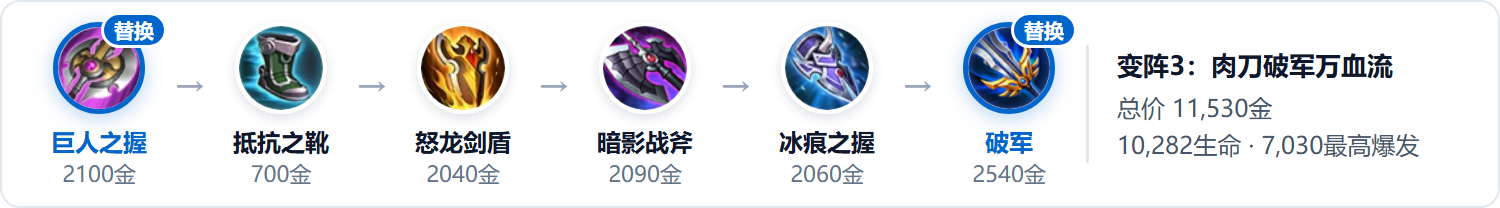
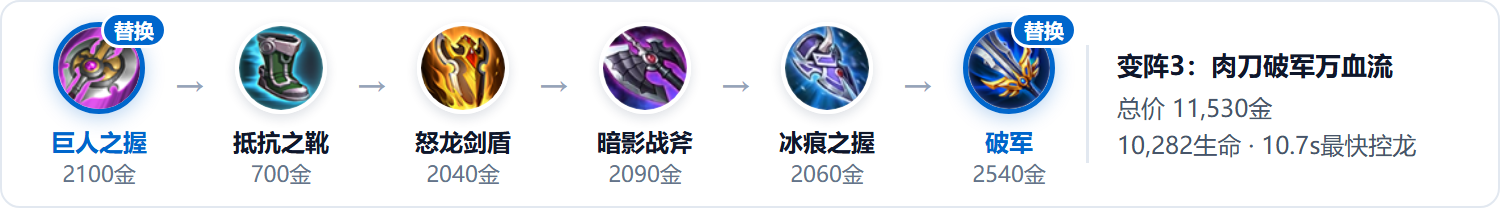
docs(guide): update Zhao Yun S45 build guide and assets with v1.2.3 calculation engine

diff --git a/docs/guides/zhaoyun_jungle_guide.md b/docs/guides/zhaoyun_jungle_guide.md
@@ -6,7 +6,7 @@
 
 同样是半肉底子，不同出装在实战中的优劣势差异明显：比如打野刀是出红刀补攻击与冷却，还是出肉刀撑万血？防装是保留怒龙剑盾、暴烈之甲，还是替换为不死鸟之眼、魔女斗篷或碎星锤？下面按照对局真实经济节奏，分**后期（15分钟六神装全局评估）、前期（5分钟第一大件与12格预设）、中期（8~10分钟大红刀升级节点与双龙团过渡）**进行拆解。
 
-> **测试条件说明**：统一携带百穿隐匿铭文（**10异变 + 10鹰眼 + 10隐匿**）；伤害按赵云基础进场连招 **1-3-A-2-A** 计算（1技能突进 + 大招击飞挂感电 + 强化普攻 + 2技能4段刺满 + 补一发普攻）。
+> **测试条件说明**：统一携带百穿隐匿铭文（**10异变 + 10鹰眼 + 10隐匿**）；伤害按赵云基础进场连招 **1-3-A-2-A** 计算（1技能突进 + 大招击飞挂感电 + 强化普攻 + 2技能5枪刺满 + 补一发普攻，严格计入冰痕1.25秒、怒龙2.5秒、宗师3.0秒内置CD与三级野刀狩猎灼烧）。
 
 ---
 
@@ -26,10 +26,10 @@
 | **法术防御 (面板免伤)** | 419 (41%免伤) | **449 (43%免伤)** | 419 (41%免伤) | 419 (41%免伤) |
 | **物理 / 法术承伤上限 (EHP)** | **26,306** / 15,827 | 26,056 / 16,729 | 22,310 / 15,318 | 25,398 / **17,438** |
 | **面板移速** | 494 | 494 | **527 (最快)** | 494 |
-| **打【中射】爆发伤害 (350防)** | 6,965 | 6,322 | 6,833 | **7,030 (最高)** |
-| **打【坦克】爆发伤害 (1000防)** | 3,541 | 3,213 | **4,022 (最高)** | 3,574 |
+| **打【中射】爆发伤害 (350防)** | **6,500 (最高)** | 6,178 | 6,447 | 6,468 |
+| **打【坦克】爆发伤害 (1000防)** | 3,321 | 3,157 | **3,813 (最高)** | 3,305 |
 | **2技能回血 (健康 / ≤30%残血)** | 1,323 / 1,323 | 1,348 / **1,961** | 1,307 / 1,307 | **1,406** / 1,406 |
-| **单刷大龙耗时 (3.5万血)** | 11.2 秒 | 13.3 秒 | 11.3 秒 | **10.2 秒** |
+| **单刷大龙耗时 (3.5万血)** | 10.9 秒 | 12.1 秒 | 11.1 秒 | **10.7 秒 (最快)** |
 
 从表中可以看到，没有任何一套出装能在所有维度同时占优，每套方案都是在**爆发伤害、打肉效率、物理/法术身板、残血续航与经济平滑度**之间做取舍。下面对四套方案的优势与短板逐一评估：
 
@@ -43,11 +43,11 @@
 
 * **核心优势**：
   1. **物理抗伤能力最强**：三件防装（`冰痕之握 +300物防`、`暴烈之甲 +210物防`、`怒龙剑盾 +150物防`）将满级物防堆至 **1,095 点（65%物理免伤）**，配合 9,332 点生命值，折算物理承伤上限达 **26,306**（四套最高），正面承受敌方射手、物理刺客与战边的输出非常扎实；
-  2. **后排斩杀线与刷龙速度达标**：依托暗影战斧、冰痕强击、怒龙剑盾被动（3.5%最大生命物理伤害）以及暴烈之甲叠满后的 10% 增伤，一套连招打中射脆皮可达 **6,965 点**，配合红惩击刚好覆盖 15 级无防装后排（约 7,000 血）的斩杀线，单刷大龙仅需 **11.2 秒**；
+  2. **后排斩杀线与刷龙速度达标**：依托暗影战斧、冰痕强击（1.25秒冷却，连招内触发2次）、怒龙剑盾被动（3.5%最大生命物理伤害）、贪婪之噬狩猎灼烧以及暴烈之甲叠满后的 10% 增伤，一套连招打中射脆皮可达 **6,500 点**（四套最高），配合红惩击刚好覆盖 15 级无防装后排（约 6,500~7,000 血）的斩杀线，单刷大龙仅需 **10.9 秒**；
   3. **冷却与移速手感均衡**：常驻 32.5% 冷却缩减（2技能 3.4 秒、大招 8.8 秒），面板移速 494（触发暴烈被动最高可达 532）。
 * **主要短板**：
   1. **法防面板偏薄（重物防、轻法防）**：全身仅靠 `抵抗之靴 (+100法防)` 和 `怒龙剑盾 (+150法防)` 提供魔抗，满级法防仅 **419 点（41%法术免伤）**，折算法术承伤上限为 15,827。到了中后期，敌方法师做出 `虚无法杖（45%法穿）` 与常规法穿铭文/秘法鞋后，这 419 点法防扣完穿透仅剩 **60~80 点（实际法术免伤跌至约 10%）**，面对高法伤阵容时容易被快速压低血线；
-  2. **缺乏百分比破甲**：仅有 280 点固定物穿，打千防坦克一套伤害为 **3,541 点**，后期处理多前排阵容效率有限。
+  2. **缺乏百分比破甲**：仅有 280 点固定物穿，打千防坦克一套伤害为 **3,321 点**，后期处理多前排阵容效率有限。
 * **适用场景**：双方阵容常规、敌方法术威胁适中、单前排的均势对局。
 
 ---
@@ -62,7 +62,7 @@
   1. **残血极限续航与多轮拉扯能力突出**：赵云血量低于 40% 进入三档被动【飞龙在天】时自带 **20% 免伤**，此时不死鸟之眼的血统被动同步叠高。实测在 30% 血量以下释放 2 技能，单次可回复 **1,961 点生命**（比官方流多回 **638 点**），在持续拉扯团战与残血反打中优势明显；
   2. **生命值与物防依然稳固**：生命值提升至 **9,582 点**，物理防御保持在 **1,035 点（63%物理免伤）**，物理承伤上限（26,056）与官方流基本持平。
 * **主要短板**：
-  1. **失去单人满血秒 C 能力，刷龙变慢**：换掉怒龙剑盾后，失去其按最大生命值计算的被动伤害，打后排脆皮一套伤害降至 **6,322 点**（比官方流少 643 点），无法一套秒杀满血后排，进场打完一套需追击补一两发普攻；单刷大龙耗时也从 11.2 秒增加到 **13.3 秒**；
+  1. **失去单人满血秒 C 能力，刷龙变慢**：换掉怒龙剑盾后，失去其按最大生命值计算的被动伤害，打后排脆皮一套伤害降至 **6,178 点**（比官方流少 322 点），无法一套秒杀满血后排，进场打完一套需追击补一两发普攻；单刷大龙耗时也从 10.9 秒增加到 **12.1 秒**；
   2. **面板法防仅比官方流多 30 点（419 → 449）**：被替换的 `怒龙剑盾` 本身带有 150 法防，而 `不死鸟之眼` 为 `+90物防 / +180法防 / +1350生命`，替换后面板法防仅升至 **449 点（43%法术免伤，仅提高 2%）**。因此它抗法伤的机制是“吃完第一波伤害不死、靠 2 技能高额回血把血线抬回来”，而非靠高魔抗硬吃爆发。若敌方是安琪拉、干将莫邪、不知火舞等超高爆发法师且发育超前，一套直接灌死不给回血机会，则应将不死鸟替换为 **`魔女斗篷`（`+300法防 / +1100生命`，面板法防提至 `569`［49%免伤］并附带 `1,000+` 法术护盾与被动转化 `45物防`）**。
 * **适用场景**：敌方为消耗型法师（沈梦溪、嬴政、扁鹊等）、双法伤阵容或多回合拉扯团战。
 
@@ -75,11 +75,11 @@
 这套是将官方流最后一件暴烈之甲替换为 `碎星锤`。
 
 * **核心优势**：
-  1. **打前排与半肉后排效率最高**：暗影战斧（180物穿）+ 百穿铭文（100物穿）+ 碎星锤（30%物穿）组成“双穿”，物理攻击升至四套最高的 **816 点**，打千防坦克一套伤害提升至 **4,022 点**（比官方流高约 14%），打补出不祥征兆的半肉射手（620物防）伤害达 **5,296 点**；
+  1. **打前排与半肉后排效率最高**：暗影战斧（180物穿）+ 百穿铭文（100物穿）+ 碎星锤（30%物穿）组成“双穿”，物理攻击升至四套最高的 **816 点**，打千防坦克一套伤害提升至 **3,813 点**（比官方流高约 15%），打补出不祥征兆的半肉射手（620物防）伤害达 **5,004 点**；
   2. **机动性全方案最高**：碎星锤提供 7.5% 移速加成，使常态面板移速达到 **527 点**（比其余三套快 33 点），带线牵制、支援转线与团战侧翼进出更加灵活。
 * **主要短板**：
   1. **身板在四套中最薄**：少了暴烈之甲的 210 点物防与 300 点生命差额后，最大生命值降至 **9,032 点**（四套最低），**物理防御从 1,095 降至 885 点（60%物理免伤）**，法术防御仍为 **419 点（41%法术免伤）**，折算物理承伤上限降至 **22,310**（比官方流低约 4,000 点），正面抗集火能力明显下降；
-  2. **打无防装脆皮伤害略低于暴烈之甲**：面对 350 物防的无防装后排，30% 物理穿透换算出的破甲收益低于暴烈之甲满层 10% 增伤，因此秒脆皮伤害（6,833）反而比官方流（6,965）低 132 点。
+  2. **打无防装脆皮伤害略低于暴烈之甲**：面对 350 物防的无防装后排，30% 物理穿透换算出的破甲收益略低于暴烈之甲满层 10% 增伤，因此秒脆皮伤害（6,447）比官方流（6,500）低 53 点。
 * **适用场景**：敌方多前排坦克（张飞、廉颇、夏侯惇、白起）保排，或敌方射手在中后期补出不祥征兆/暴烈之甲的对局；团战需避开正面硬顶，利用高移速从侧翼切入拉扯。
 
 ---
@@ -91,7 +91,7 @@
 这套采用「巨人之握 + 怒龙剑盾 + 破军」的组合，以高血量联动黄盾被动与破军斩杀。
 
 * **核心优势**：
-  1. **万血联动高爆发与最快控龙**：巨人之握叠满后生命值达到 **10,282 点**（唯一破万），同时放大了 2 技能的生命加成回血（常态回 **1,406 点**）与怒龙剑盾按最大生命计算的被动伤害；配合破军 +150 物攻与残血 30% 增伤，秒脆皮伤害达到最高的 **7,030 点**，单刷大龙缩短至 **10.2 秒**；
+  1. **万血联动高爆发与最快控龙**：巨人之握叠满后生命值达到 **10,282 点**（唯一破万），同时放大了 2 技能的生命加成回血（常态回 **1,406 点**）与怒龙剑盾按最大生命计算的被动伤害；配合破军 +150 物攻与残血 30% 增伤，秒脆皮伤害达 **6,468 点**，单刷大龙缩短至 **10.7 秒**（四套最快）；
   2. **冷却最高且抗法伤/真伤容错更好**：破军提供 5% 冷却缩减，使总冷却达到 **35.0%**（2技能 3.3 秒、大招 8.5 秒）；虽然面板法防同样为 419 点，但凭借 10,282 的高血量池，折算法术承伤上限达到 **17,438**（四套最高），面对高法穿法师或吕布、马可波罗等真实伤害英雄时比单纯堆物防更耐打。
 * **主要短板**：
   1. **成型造价最贵、中期合成断档期长**：总价 **11,530 金币**（比其余三套贵约 500 金币），其中破军单件高达 2,540 金币且需攒两把风暴巨剑，均势或逆风局在中期憋破军会导致长时间无大件更新；
@@ -104,7 +104,7 @@
 
 在系统默认的官方推荐出装顺序中，`怒龙剑盾`（黄盾）排在 `暗影战斧`（黑切）之前。但从装备机制、合成路径与 5 分钟数值测算来看，**第一大件应优先调整顺序先出暗影战斧，不宜第一件裸出怒龙剑盾**：
 
-1. **被动收益机制差异**：怒龙剑盾的被动重创伤害（对野怪 7% 最大生命、对英雄 3.5% 最大生命）与回血均按**最大生命值百分比**计算。在 4~5 分钟（约 7 级）节点，赵云基础血量尚低且没有其他生命装支撑，裸出黄盾的被动收益有限；
+1. **被动收益机制差异**：怒龙剑盾的被动重创伤害（对野怪 7% 最大生命、对英雄 3.5% 最大生命，内置CD 2.5秒）与回血均按**最大生命值百分比**计算。在 4~5 分钟（约 7 级）节点，赵云基础血量尚低且没有其他生命装支撑，裸出黄盾的被动收益有限；
 2. **S45 合成小件属性差异**：怒龙剑盾由 `守护者之铠 (800金) + 神隐斗篷 (800金)` 合成，属于纯防御装，**不提供物理攻击、物理穿透与冷却缩减**；而暗影战斧由 `陨星 (760金，铁剑+元流结晶) + 日冕 (750金)` 合成，前期先花 760 金币做出 **陨星**（`+35物攻 / +50物穿 / +7.5%冷却`），能够直接发挥赵云技能的高额 AD 加成并缩短技能真空期。
 
 结合全时期平滑过渡整理的 **「局内 12 格小件预设与合成路线」** 如下：
@@ -117,8 +117,8 @@
 
 从 5 分钟（7级）实测对比可以看到两者的具体得失：
 
-* **先出暗影战斧（3,490金）**：打后排脆皮一套连招 **4,075 点伤害**，恰好达到 7 级脆皮（满血约 **4,050 ~ 4,150**）的斩杀线，配合队友或红惩击即可完成击杀；单刷第一条暴君/主宰耗时 **26.4 秒**（快 3.3 秒）。
-* **先出怒龙剑盾（3,440金）**：优势是 7 级多了 600 点血量与 150 物防/150 法防，抗伤容错更高；但短板是 0 冷却缩减，且打后排一套仅有 **3,295 点伤害**（少 **780 点**），前中期抓人难以独立完成击杀。
+* **先出暗影战斧（3,490金）**：打后排脆皮一套连招 **3,658 点伤害**，配合队友或红惩击即可压进 7 级脆皮斩杀线；单刷第一条暴君/主宰耗时 **22.3 秒**（快 5.2 秒）。
+* **先出怒龙剑盾（3,440金）**：优势是 7 级多了 600 点血量与 150 物防/150 法防，抗伤容错更高；但短板是 0 冷却缩减，且打后排一套仅有 **2,728 点伤害**（少 **930 点**），前中期抓人难以独立完成击杀。
 
 ---
 
@@ -132,7 +132,7 @@
 * **S45 大红刀的 640 金币合成收益**：`贪婪之噬 (2100金) = 追击刀锋 (700金) + 陨星 (760金) + 640金合成费`。在 8分半做完冰痕之握后，先花 760 金币购入 **陨星**（冷却缩减从 20% 提升至 **27.5%**，物攻+35）；紧接着**仅需补 640 金币合成费**升级大红刀，即可立即解锁 22~25 层的完整属性：
   1. **面板物攻提升 95 点**（从二级刀的 70 攻提升至满层 **165 攻**，比携带陨星净增 60 点物攻）；
   2. **冷却缩减达到 32.5%**（解锁全额 **12.5% 冷却**，拿蓝 Buff 直接满 40% CD 上限，无蓝状态下 2 技能冷却仅 **3.38 秒**、大招 **8.78 秒**）；
-  3. **获得 5% 移速加成**（面板移速从 473 提升至 **495**），同时红惩对英雄的灼烧伤害比例从 10% 提升至 **25%**。
+  3. **获得 5% 移速加成**（面板移速从 473 提升至 **495**），同时【被动-狩猎】对英雄的灼烧伤害比例从 10% 提升至 **25%**。
 * **为什么不在 6分半刚做完黑切就升大红刀，且 9分半要先补「神隐斗篷」？（中期身板双抗平衡）**：
   1. **6分半裸升大红刀的短板（缺物防）**：6分半（约 9 级）刚做完暗影战斧时，赵云没有任何护甲装，**面板物防仅 325 点（35%物理免伤），折算物理承伤仅 11,983**。若此时花 1,400 金币先升大红刀，物防过低极易在野区遭遇战中被秒；而先买 `荆棘护手 (+150物防)` 合出 `冰痕之握 (+300物防)`，8分半时**面板物防升至 660 点（52%物理免伤），物理承伤提至近 1.8 万**，物理身板稳固后再升大红刀容错率更高。
   2. **9分半补神隐斗篷解决法防短板**：8分半升完大红刀后，赵云物防已有 660 点，但全身只有一双抵抗之靴，**法防仅有 243 点（29%法术免伤）**。因此在 9分半（第 10 格）花 800 金币补出 **`神隐斗篷 (+150法防 / +450生命)`**，可将 10 分钟双龙团的**法防从 243 直接拉高到 393 点（40%法术免伤，与做完整个怒龙剑盾的法防完全一致），物理承伤也同步升至 20,403**，用 800 金币提前补齐双抗。
@@ -145,29 +145,28 @@
 
 | 10分钟出装组合 | 总金币 | 冷却 | 12级面板 (生命/物防/法防) | 物理承伤 (EHP) | 秒后排伤害 (350防) | 打前排伤害 (1000防) | 单刷暗影大龙 |
 | :--- | :--- | :--- | :--- | :--- | :--- | :--- | :--- |
-| **★ 冰痕升大红刀** (`大红刀+黑切+冰痕+神隐`) | 7,750 | **32.5%** | 6,940 / 660 / **393** | 20,403 | **5,505 (满CD高攻)** | 2,798 | **13.6 秒** |
-| **① 传统卡2级刀** (`2级红刀+黑切+黄盾+冰痕`) | 7,590 | 20% | 7,590 / **810** / 393 | 20,581 | 5,546 | 2,819 | 14.9 秒 |
-| **② 提前魔抗** (`2级红刀+黑切+冰痕+不死鸟`) | 7,570 | 20% | 7,840 / 750 / **423** | 20,343 | 5,023 | 2,553 | 17.9 秒 |
-| **③ 提前破甲** (`2级红刀+黑切+冰痕+碎星锤`) | 7,630 | 20% | 7,190 / 660 / 243 (缺法防) | 17,616 | 5,702 | **3,357 (打肉最高)** | 15.5 秒 |
-| **④ 肉刀扎实** (`2级肉刀+黑切+黄盾+冰痕`) | 7,590 | 20% | **8,190** / **810** / 393 | **22,680 (最肉)** | 5,209 | 2,648 | 14.1 秒 |
-| **⑤ 宗师爆发** (`2级红刀+黑切+黄盾+宗师`) | 7,630 | 10% | 8,190 / 510 (缺物防) / 393 | 17,612 | **6,331 (秒C最高)** | 3,218 | **13.3 秒 (最快)** |
-| **⑥ 极寒叠CD** (`2级红刀+黑切+黄盾+极寒`) | 7,570 | 30% | 8,190 / 750 / 393 | 21,173 | 4,635 | 2,356 | 18.6 秒 |
+| **★ 冰痕升大红刀** (`大红刀+黑切+冰痕+神隐`) | 7,750 | **32.5%** | 6,940 / 660 / **393** | 20,403 | **5,397 (满CD高攻)** | 2,758 | **13.8 秒 (最快)** |
+| **① 传统卡2级刀** (`2级红刀+黑切+黄盾+冰痕`) | 7,590 | 20% | 7,590 / **810** / 393 | 20,581 | 4,925 | 2,508 | 15.3 秒 |
+| **② 提前魔抗** (`2级红刀+黑切+冰痕+不死鸟`) | 7,570 | 20% | 7,840 / 750 / **423** | 20,343 | 4,664 | 2,375 | 17.3 秒 |
+| **③ 提前破甲** (`2级红刀+黑切+冰痕+碎星锤`) | 7,630 | 20% | 7,190 / 660 / 243 (缺法防) | 17,616 | **5,398 (最高)** | **3,183 (打肉最高)** | 15.2 秒 |
+| **④ 肉刀扎实** (`2级肉刀+黑切+黄盾+冰痕`) | 7,590 | 20% | **8,190** / **810** / 393 | **22,680 (最肉)** | 4,512 | 2,298 | 16.2 秒 |
+| **⑤ 宗师爆发** (`2级红刀+黑切+黄盾+宗师`) | 7,630 | 10% | 8,190 / 510 (缺物防) / 393 | 17,612 | 5,131 | 2,613 | 14.1 秒 |
+| **⑥ 极寒叠CD** (`2级红刀+黑切+黄盾+极寒`) | 7,570 | 30% | 8,190 / 750 / 393 | 21,173 | 3,938 | 2,006 | 17.7 秒 |
 
 结合表 2 的多维数据测算，中期 8~10 分钟不同过渡路线的优劣势与适用场景如下：
 
 * **常规均势局最优解：「黑切 → 冰痕 → 陨星升大红刀 → 神隐斗篷合黄盾」**：
-  - **优势**：相比传统卡 2 级野刀先出三大件的方案①（仅 20% 冷却、473 移速、刷龙 14.9 秒），这套路线在保持几乎相同的连招爆发（5,505）、法防（393）与物理承伤（20,403）的同时，**多拿到了 32.5% 满档冷却缩减、495 高移速与 13.6 秒的刷龙速度**；相比为了凑冷却去出极寒风暴的方案⑥（连招伤害仅 4,635、刷龙 18.6 秒），伤害高出近 900 点、刷龙快 5 秒。
+  - **优势**：相比传统卡 2 级野刀先出三大件的方案①（仅 20% 冷却、473 移速、秒C伤害 4,925、刷龙 15.3 秒），这套路线依托大红刀满层高额物攻、25% 狩猎灼烧与冰痕 1.25 秒冷却的双次强击，在法防（393）与物理承伤（20,403）基本持平的同时，**连招爆发反超 472 点（达 5,397），并多拿到了 32.5% 满档冷却缩减、495 高移速与 13.8 秒的最快刷龙速度**；相比为了凑冷却去出极寒风暴的方案⑥（连招伤害仅 3,938、刷龙 17.7 秒），伤害高出 1,459 点、刷龙快 3.9 秒。
   - **短板**：10 分钟节点尚未合出怒龙剑盾成品，少了 650 点生命与 150 点物防，打完双龙团后需再补 1,240 金币将神隐斗篷合成为 `怒龙剑盾`。
-* **前期大顺风终结比赛：「宗师爆发过渡（方案⑤）」**：
-  - **优势**：一套连招打后排高达 **6,331 点**（可直接满血秒杀 12 级约 6,000 血的射手/法师），单刷暗影大龙仅需 **13.3 秒**（全场最快）。
-  - **短板**：少了冰痕之握的 300 点物防（12级物防仅 **510 点**，物理承伤降至 17,612）与 10% 冷却缩减（仅 10% CD），正面抗物理集火能力弱，且缺乏冰痕的范围减速留人。
+* **为什么「冰痕升大红刀」比「宗师爆发过渡（方案⑤）」更实用？**：
+  - **机制差异**：`宗师之力` 的强击被动内置冷却为 **3.0 秒**，在赵云 `1-3-A-2-A` 进场爆发期内仅能触发 **1 次**（秒后排伤害 **5,131 点**，刷龙 **14.1 秒**）；而 `冰痕之握` 的强击内置冷却仅 **1.25 秒**，穿插 2 技能后首尾两发普攻可完整触发 **2 次**，配合大红刀的高物攻与狩猎灼烧，秒后排伤害（**5,397 点**）与刷龙速度（**13.8 秒**）均优于二级刀配宗师，同时还多出 300 点物防、22.5% 冷却缩减与范围减速留人。
 * **针对敌方天肥法师或多前排的微调**：
   - 若 8 分钟敌方高爆发法师发育超前，可**先提前买出第 10 格的 `神隐斗篷 (800金)` 将法防从 243 拉到 393**，再补 `陨星 → 贪婪之噬`，随后将神隐斗篷合成为 `不死鸟之眼` 或 `魔女斗篷`；
-  - 若敌方双前排护甲成型快、抱团推塔紧，可走提前破甲路线（方案③，打千防前排伤害 **3,357**），但需注意此时法防仅有 **243 点**，团战需避免正面吃法师消耗。
+  - 若敌方双前排护甲成型快、抱团推塔紧，可走提前破甲路线（方案③，打千防前排伤害 **3,183**），但需注意此时法防仅有 **243 点**，团战需避免正面吃法师消耗。
 
-为了直观对比中期常见的 **「半肉过渡（冰痕之握）」** 与 **「爆发过渡（宗师之力）」** 在实机中的身板与伤害差异，10 分钟节点的实测对比如下：
+为了直观对比中期 **「冰痕后升大红刀过渡（★方案）」** 与 **「传统卡2级野刀过渡（方案①）」** 在实机中的伤害、冷却与刷龙差异，10 分钟节点的实测对比如下：
 
-![10分钟中期：常规半肉过渡(冰痕) vs 宗师爆发过渡(宗师) 实测对比](./assets/ui_02_mid_10min.png)
+![10分钟中期：升大红刀过渡 vs 卡2级刀传统过渡 实测对比](./assets/ui_02_mid_10min.png)
 
 ---
 
@@ -179,16 +178,16 @@
 
 | 15级敌方目标类型 | 满级血量 / 物防参考 | ① 官方半肉流 | ② 不死鸟续航流 | ③ 碎星锤破甲流 | ④ 肉刀破军流 | 后期团战处理建议 |
 | :--- | :--- | :--- | :--- | :--- | :--- | :--- |
-| **无防装脆皮** (呆射/常规法师) | ~7,000 血 / 350防 | **6,965** | 6,322 | 6,833 | **7,030** | 官方流与破军流配惩击可直接秒；不死鸟流需多补一发平A |
-| **半肉后排** (出不祥的狄仁杰/阿离) | ~8,320 血 / 620防 | 4,969 | 4,510 | **5,296** | 5,015 | 满血状态下无法单套秒杀，建议出**碎星锤**或等队友先压血线 |
-| **对抗路战士** (铠/孙策/夏洛特) | ~9,800 血 / 750防 | 4,366 | 3,963 | **4,778** | 4,407 | 单套技能无法秒杀，需利用 3.4 秒一个的 2 技能与冰痕减速拉扯打两套 |
-| **常规坦克前排** (廉颇/夏侯惇) | ~13,500 血 / 1,000防 | 3,541 | 3,213 | **4,022** | 3,574 | 大招优先留给后排，可用 2 技能刮前排回血并叠加感电 |
-| **极限大肉** (白起/项羽) | ~15,000 血 / 1,200防 | 3,075 | 2,791 | **3,570** | 3,104 | 护甲超过 1,200 时，仅**碎星锤流**具备可观杀伤力 |
+| **无防装脆皮** (呆射/常规法师) | ~6,500~7,000 血 / 350防 | **6,500** | 6,178 | 6,447 | **6,468** | 官方流与破军流配红惩可达斩杀线；不死鸟流需多补 1~2 发平A |
+| **半肉后排** (出不祥的狄仁杰/阿离) | ~8,320 血 / 620防 | 4,645 | 4,415 | **5,004** | 4,622 | 满血状态下无法单套秒杀，建议出**碎星锤**或等队友先压血线 |
+| **对抗路战士** (铠/孙策/夏洛特) | ~9,800 血 / 750防 | 4,087 | 3,885 | **4,521** | 4,068 | 单套技能无法秒杀，需利用 3.4 秒一个的 2 技能与冰痕减速拉扯打两套 |
+| **常规坦克前排** (廉颇/夏侯惇) | ~13,500 血 / 1,000防 | 3,321 | 3,157 | **3,813** | 3,305 | 大招优先留给后排，可用 2 技能刮前排回血并叠加感电 |
+| **极限大肉** (白起/项羽) | ~15,000 血 / 1,200防 | 2,892 | 2,750 | **3,393** | 2,879 | 护甲超过 1,200 时，**碎星锤流**单套伤害比其余高 17%~23% |
 
 从实测连招伤害中可以提炼出两项核心实战法则：
 
-1. **无防装后排（350物防/约7000血）**：**官方半肉流（6,965）** 与 **肉刀破军流（7,030）** 配合红惩击均可达成单套满血斩杀；不死鸟续航流（6,322）打完一套后需多补 1~2 发普攻完成收割；
-2. **半肉后排与前排坦克**：一旦敌方射手做出不祥征兆（620防）或坦克堆至千防，常规出装伤害衰减明显，仅有 **碎星锤破甲流（4,022）** 凭借双穿机制能对前排造成可观消耗；团战中非碎星锤流派应把大招精准留给敌方后排，用 2 技能刮前排回血并叠加感电。
+1. **无防装后排（350物防/约6,500~7,000血）**：**官方半肉流（6,500）** 与 **肉刀破军流（6,468）** 配合红惩击均可达成单套满血斩杀；不死鸟续航流（6,178）打完一套后需多补 1~2 发普攻完成收割；
+2. **半肉后排与前排坦克**：一旦敌方射手做出不祥征兆（620防）或坦克堆至千防，常规出装伤害衰减明显，仅有 **碎星锤破甲流（3,813）** 凭借双穿机制能对前排造成可观消耗；团战中非碎星锤流派应把大招精准留给敌方后排，用 2 技能刮前排回血并叠加感电。
 
 「官方推荐半肉流」与「不死鸟续航流」在 15 分钟满级节点的完整面板与续航实测对比如下：
 
@@ -196,7 +195,7 @@
 
 ---
 
-总结来看，当前版本打野赵云的出装核心框架可以归纳为：**5分钟先由陨星合成暗影战斧保证抓人斩杀线；8分半做完冰痕之握（撑起660物防）后补陨星升级贪婪之噬（拉满32.5%冷却与495移速，大顺风可转宗师之力）；9分半双龙团前补出神隐斗篷（将法防拉至393），后续视敌方法师威胁程度合成为怒龙剑盾、不死鸟之眼或魔女斗篷；最后一件根据敌方前排护甲选择暴烈之甲（补物防与增伤）或碎星锤（补双穿与移速）**。如果有其他实用的赵云出装思路，欢迎在评论区一起交流。
+总结来看，当前版本打野赵云的出装核心框架可以归纳为：**5分钟先由陨星合成暗影战斧保证抓人斩杀线；8分半做完冰痕之握（撑起660物防）后补陨星升级贪婪之噬（拉满32.5%冷却、495移速与5,397连招爆发）；9分半双龙团前补出神隐斗篷（将法防拉至393），后续视敌方法师威胁程度合成为怒龙剑盾、不死鸟之眼或魔女斗篷；最后一件根据敌方前排护甲选择暴烈之甲（补物防与增伤）或碎星锤（补双穿与移速）**。如果有其他实用的赵云出装思路，欢迎在评论区一起交流。
 
 > **工具地址：**
 > 1. 手机端：直接搜小程序 **【王者出装箱】** 即点即用
